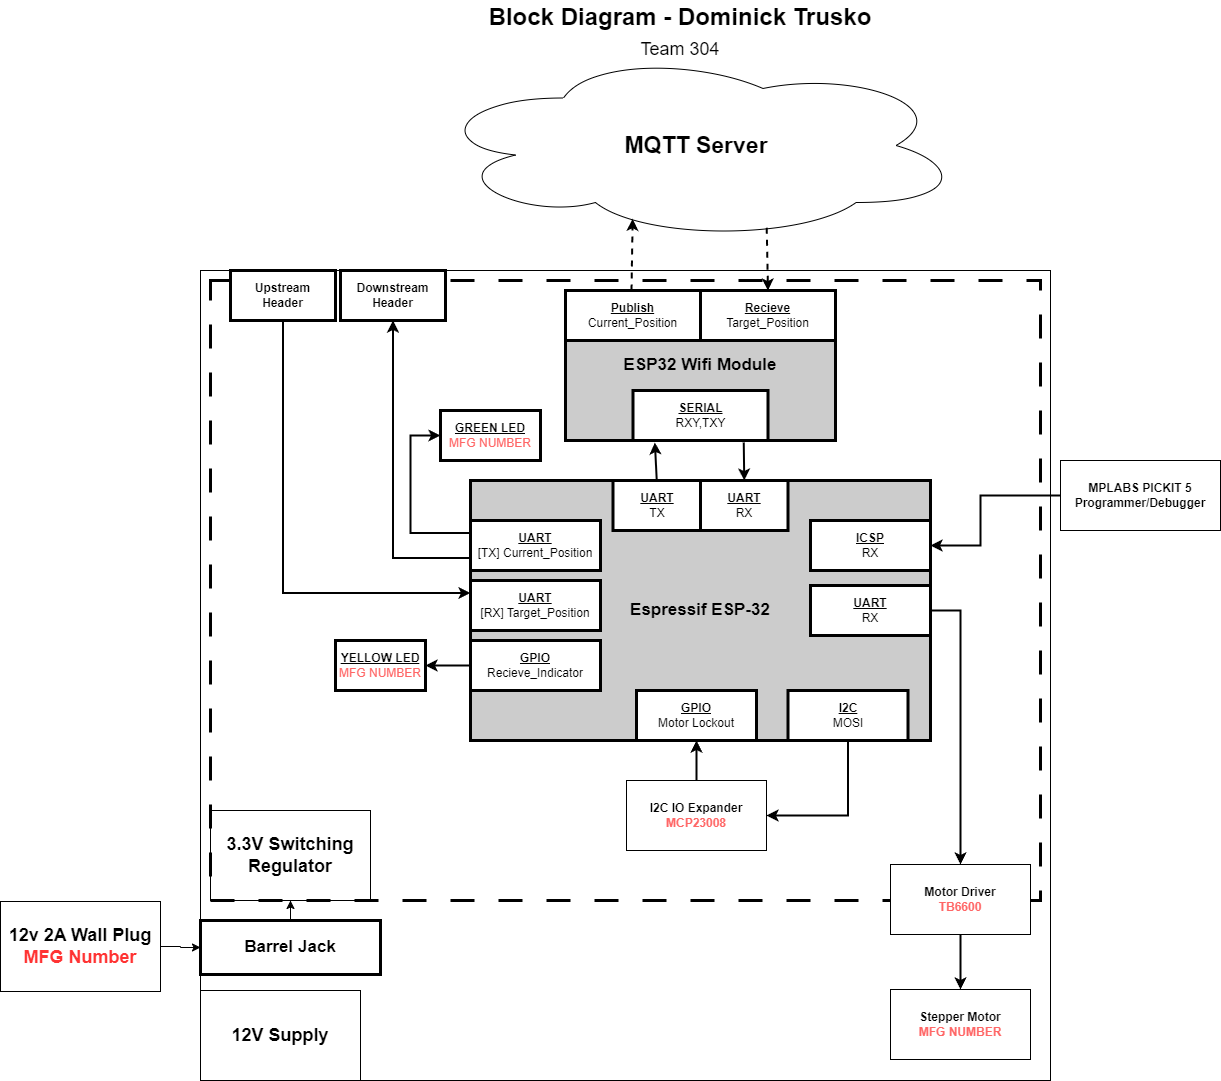
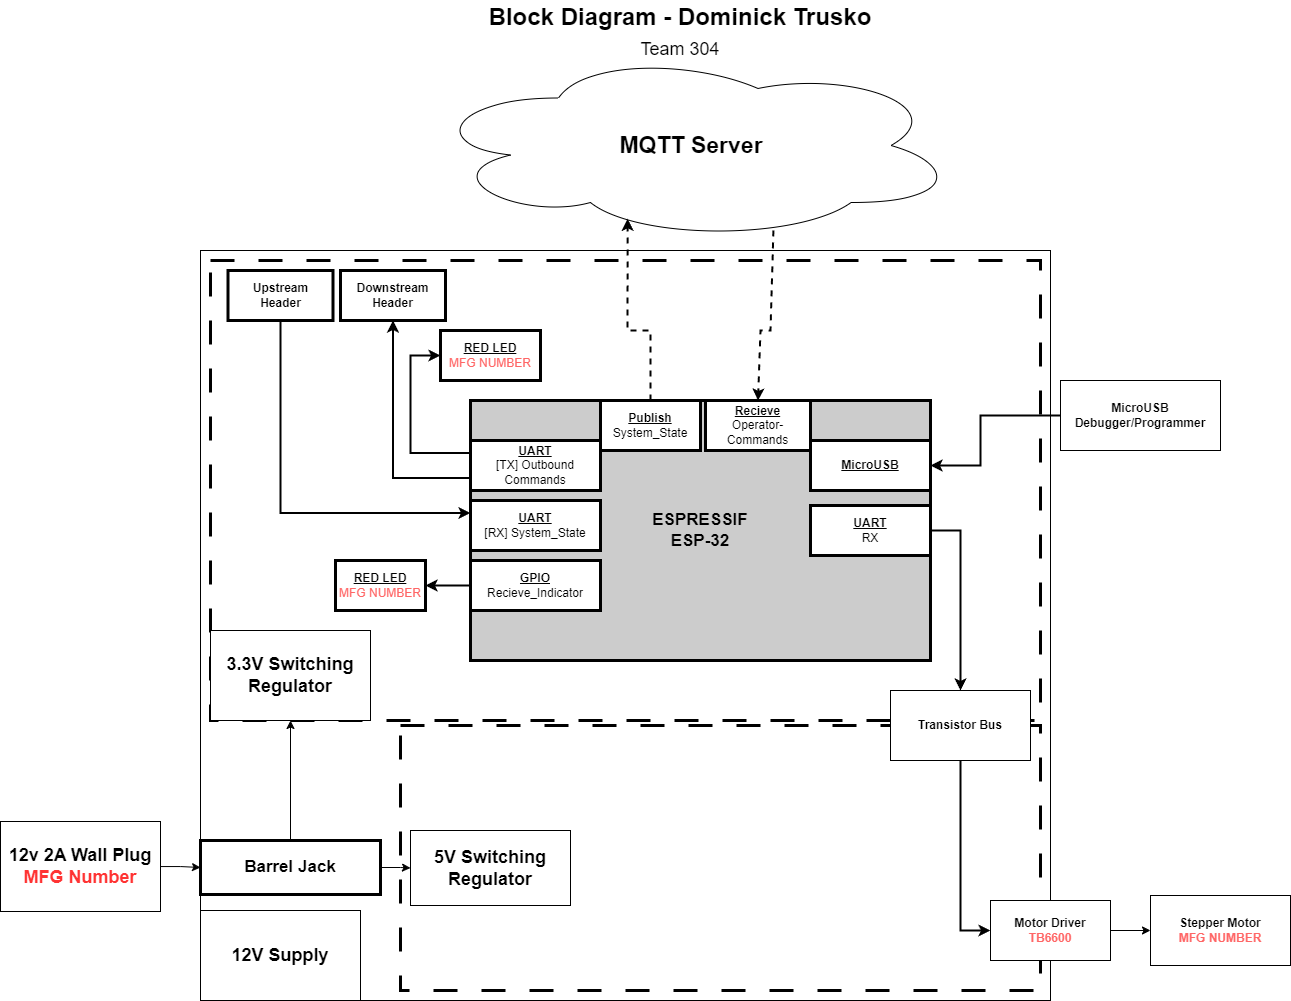
Design Review Feedback

diff --git a/HardwareSchematic.html b/HardwareSchematic.html
@@ -50,9 +50,9 @@
         <div class="deployable-content-box">
             <p class="content-header"> Power System Layout </p>
             <p class="content-text">
-                Due to the requirements of the project, two power systems are required. One power system is for the I2C
-                chip and the ESP32, while the 5v system is used to drive the pulse pins on the stepper motor driver.
-                It would be considerably easier to move to a 5v microcontroller and I2C IO expander, but this solution
+                Due to the requirements of the project, two power systems are required. One power system is for the
+                ESP32, while the 5v system is used to drive the pulse pins on the stepper motor driver.
+                It would be considerably easier to move to a 5v microcontroller, but this solution
                 is a side-effect of the class-set project requirements.
             </p>
             <div class="zoomable-container">
@@ -69,9 +69,6 @@
                 My board needs to interface with a 24v stepper motor, driven by an external driver. This driver requires
                 a 5v magnitude for the pulse, which cannot be provided by the 3.3v microcontroller. My solution is
                 to use MOSFETs with a trigger at 0.7v to activate the 5v pulse, which in turn drives the motor driver.
-                The IO expander is required by the project rules, so it is used to write/read a motor lockout to allow
-                the
-                motor to be put in sleep mode, where it will disable the motor control pulses and lock its movement.
             </p>
             <div class="zoomable-container">
                 <img class="zoomable-image" src="media/Hardware_Schematic/motor-system.png" alt="Hardware Diagram">
@@ -109,7 +106,8 @@
             <img style="max-width: max-content; max-height: max-content; margin:auto; margin-bottom: 2vh;"
                 src="media/Hardware_Schematic/power-budget.png" alt="Power Budget Image">
             <p class="content-text">
-                The output of my voltage regulator is 500mA at 3.3v. Which means that it is capable of powering all hardware during peak output
+                The output of my voltage regulator is 500mA at 3.3v. Which means that it is capable of powering all
+                hardware during peak output
             </p>
         </div>
     </div>

diff --git a/Taskbar.html b/Taskbar.html
@@ -93,6 +93,9 @@
             <nav-button>
                 <a href="block-diagram.html" class="nav-button-text"> Block Diagram </a>
             </nav-button>
+            <nav-button>
+                <a href="https://recpal.github.io/Group304EGR314.github.io/" class="nav-button-text"> Team Page </a>
+            </nav-button>
         </page-nav>
     </header>
 </body>
